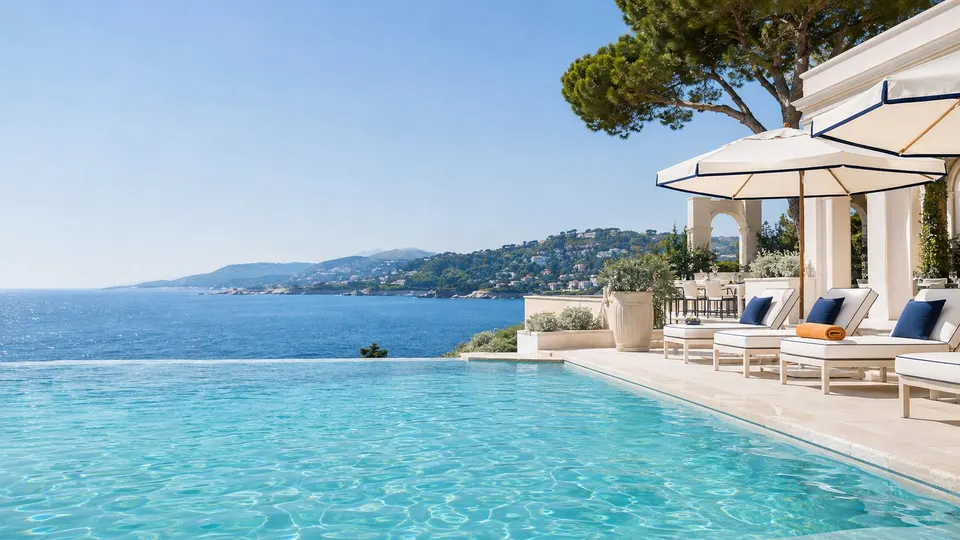
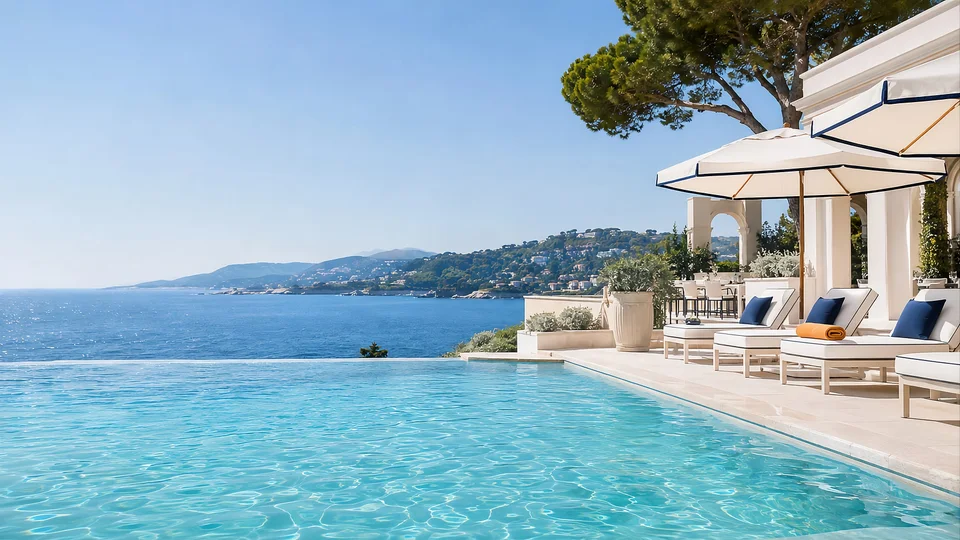
Hero sharpness: 3344px source, 2600/1600/960 hero variants at q84, overlays toned down
- images.js builds only hero widths the source can honour (plus one capped at the
  original); perf.js emits a srcset of every width present
- quality 78 -> 84 for lifestyle heroes
- pool-shimmer stripes removed and headline scrim lightened: both were designed
  for placeholder art and softened the real photograph

Changed region(s): [[0.7188, 0.563, 0.75, 0.5926], [0.7188, 0.1481, 0.75, 0.1778]]

diff --git a/scripts/images.js b/scripts/images.js
@@ -12,7 +12,7 @@ const path = require("path");
 const sharp = require("sharp");
 
 const DIR = path.join(__dirname, "..", "assets", "catalog");
-const HERO_WIDTHS = [1600, 960];
+const HERO_WIDTHS = [2600, 1600, 960]; // largest first
 const CARD_WIDTH = 480;
 const PRINT_WIDTH = 600;
 const CREAM = { r: 252, g: 249, b: 242 }; // brand cream #FFFDF8
@@ -20,20 +20,27 @@ const CREAM = { r: 252, g: 249, b: 242 }; // brand cream #FFFDF8
 async function main() {
   const files = fs.readdirSync(DIR);
   let made = 0, skipped = 0;
+  const jobs = [];
   for (const f of files) {
     const full = path.join(DIR, f);
     const base = f.replace(/\.(jpg|jpeg|png|webp)$/i, "");
     if (/-\d+\.webp$/.test(f) || /-print\.jpg$/.test(f) || f === "cover.webp") continue; // already a variant / not referenced
     if (/^cat-.*\.(jpg|jpeg|png)$/i.test(f)) {
       const hmeta = await sharp(full).metadata();
-      for (const w of HERO_WIDTHS) {
+      let built = false;
+      const sw = hmeta.width || 0;
+      HERO_WIDTHS.forEach((w, i) => {
         const out = path.join(DIR, `${base}-${w}.webp`);
-        // the largest width always exists (capped at the original size); smaller ones only if they actually reduce
-        if (w !== HERO_WIDTHS[0] && (hmeta.width || 0) <= w) { if (fs.existsSync(out)) fs.unlinkSync(out); skipped++; continue; }
-        if (fs.existsSync(out) && fs.statSync(out).mtimeMs >= fs.statSync(full).mtimeMs) { skipped++; continue; }
-        await sharp(full).resize({ width: w, withoutEnlargement: true }).webp({ quality: 78 }).toFile(out);
-        made++;
-      }
+        const next = HERO_WIDTHS[i + 1];
+        // build widths the source can honour (~90%), plus the first width above the source size
+        // (capped at the original) so a 1024px photo is never downscaled to 960
+        const wanted = sw >= w * 0.9 || (!built && (next === undefined || sw > next));
+        if (!wanted) { if (fs.existsSync(out)) fs.unlinkSync(out); skipped++; return; }
+        built = true;
+        if (fs.existsSync(out) && fs.statSync(out).mtimeMs >= fs.statSync(full).mtimeMs) { skipped++; return; }
+        jobs.push(sharp(full).resize({ width: w, withoutEnlargement: true }).webp({ quality: 84 }).toFile(out).then(() => { made++; }));
+      });
+      await Promise.all(jobs.splice(0));
     } else if (/\.webp$/i.test(f)) {
       // print variant for the lookbook PDF (alpha flattened on brand cream)
       const print = path.join(DIR, `${base}-print.jpg`);

diff --git a/scripts/perf.js b/scripts/perf.js
@@ -123,20 +123,25 @@ function eagerHero(doc) {
 }
 
 // Responsive sources: use generated variants (scripts/images.js) when present.
-//   /assets/catalog/cat-x.jpg  → src cat-x-1600.webp, srcset 960w/1600w (hero, full-bleed)
+//   /assets/catalog/cat-x.jpg  → src = largest cat-x-<w>.webp present, srcset of every width present (hero, full-bleed)
 //   /assets/catalog/x.webp     → srcset x-480.webp 480w, x.webp <orig>w (cards, contained)
 function responsiveImages(doc, distDir) {
   doc.querySelectorAll("img[src^='/assets/catalog/']").forEach((img) => {
     const src = img.getAttribute("src");
     const m = src.match(/^\/assets\/catalog\/(cat-[a-z-]+)\.(jpg|jpeg|png)$/);
     if (m) {
-      const big = "/assets/catalog/" + m[1] + "-1600.webp", mid = "/assets/catalog/" + m[1] + "-960.webp";
-      if (fs.existsSync(path.join(distDir, big))) {
-        img.setAttribute("src", big);
-        const dm = fs.existsSync(path.join(distDir, mid)) ? readDims(path.join(distDir, mid)) : null, db = readDims(path.join(distDir, big));
-        img.setAttribute("srcset", (dm && db && dm.width < db.width) ? mid + " " + dm.width + "w, " + big + " " + db.width + "w" : big + " " + (db ? db.width : 1600) + "w");
+      const variants = [2600, 1600, 960]
+        .map((w) => ({ w, url: "/assets/catalog/" + m[1] + "-" + w + ".webp" }))
+        .filter((v) => fs.existsSync(path.join(distDir, v.url)))
+        .map((v) => ({ url: v.url, width: (readDims(path.join(distDir, v.url)) || { width: v.w }).width }))
+        .filter((v, i, arr) => arr.findIndex((o) => o.width === v.width) === i) // drop duplicates capped at the source size
+        .sort((x, y) => x.width - y.width);
+      if (variants.length) {
+        const big = variants[variants.length - 1];
+        img.setAttribute("src", big.url);
+        img.setAttribute("srcset", variants.map((v) => v.url + " " + v.width + "w").join(", "));
         img.setAttribute("sizes", img.classList.contains("hero__img") ? "100vw" : "(max-width: 900px) 100vw, 50vw");
-        const d = readDims(path.join(distDir, big));
+        const d = readDims(path.join(distDir, big.url));
         if (d) { img.setAttribute("width", String(d.width)); img.setAttribute("height", String(d.height)); }
       }
       return;

diff --git a/css/styles.css b/css/styles.css
@@ -358,20 +358,7 @@ h4, h5, h6, b, strong, th { font-weight: 500; }
     );
 }
 
-/* soft pool shimmer */
-.hero__art::before {
-  content: "";
-  position: absolute;
-  left: 0;
-  right: 0;
-  top: 55%;
-  bottom: 0;
-  background: repeating-linear-gradient(
-    92deg,
-    rgba(255, 253, 248, 0.14) 0 3px,
-    transparent 3px 90px
-  );
-}
+/* (pool shimmer stripes removed 2026-11-24: they softened the real photograph) */
 
 .hero__inner {
   position: relative;

diff --git a/css/polish.css b/css/polish.css
@@ -144,12 +144,12 @@ h2 { letter-spacing: 0.012em; }
 .hero__content::before {
   content: "";
   position: absolute;
-  inset: -60px -80px -60px -60px;
+  inset: -40px -60px -40px -40px;
   z-index: -1;
   background: radial-gradient(
     75% 85% at 32% 50%,
-    rgba(252, 248, 238, 0.72) 0%,
-    rgba(252, 248, 238, 0.35) 55%,
+    rgba(252, 248, 238, 0.5) 0%,
+    rgba(252, 248, 238, 0.18) 55%,
     rgba(252, 248, 238, 0) 100%
   );
   pointer-events: none;

diff --git a/docs/ROADMAP.md b/docs/ROADMAP.md
@@ -339,3 +339,4 @@ update ALL count assertions deliberately (products 39→45, categories 7→8).*
 - 2026-11-23 — Second stale-cache root cause: `js/category-section.js` re-rendered the homepage grid from `js/categories.js` on every load, and `/js/*` is immutable-cached for a year, so a browser with old JS drew the old hats image over the fresh pre-render. Fixes: the grid is only rendered when empty (true hydration), and every `/js/` script URL now carries the same content hash as images. Dist test asserts both.
 - 2026-11-24 — Bags product photography (all eight): B-001, B-003..B-008 PNG cutouts flattened onto sun white #FCF8EE at 1000×1000, opaque WebP (no alpha), `flat: true` renderer, 480px + lookbook print variants regenerated. B-002 Atelier added the same day. Category hero `cat-bags.jpg` unchanged (no new lifestyle shot supplied).
 - 2026-11-24 — Homepage hero: `cat-home.jpg` (Mediterranean resort infinity pool over the sea, 1672×941) replaces the bags lifestyle shot in `index.html` and as the homepage og:image (`HOME_META` in build.js). The bags category hero is unchanged.
+- 2026-11-24 — Hero sharpness: `cat-home.jpg` replaced by the 3344px upscale; lifestyle heroes now build 2600/1600/960 WebP at quality 84 (only widths the source can honour, plus the first width above it capped at the original) and perf.js emits a srcset of every width present. Removed the pool-shimmer stripe overlay and halved the headline scrim, both designed for placeholder art and visibly softening real photography.
